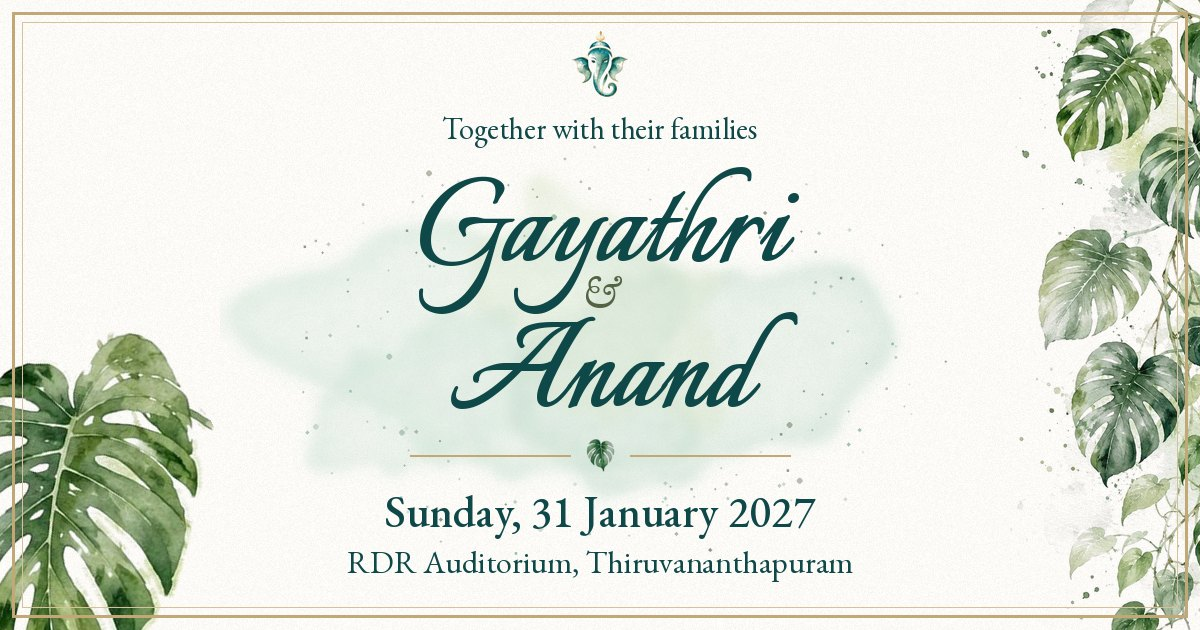
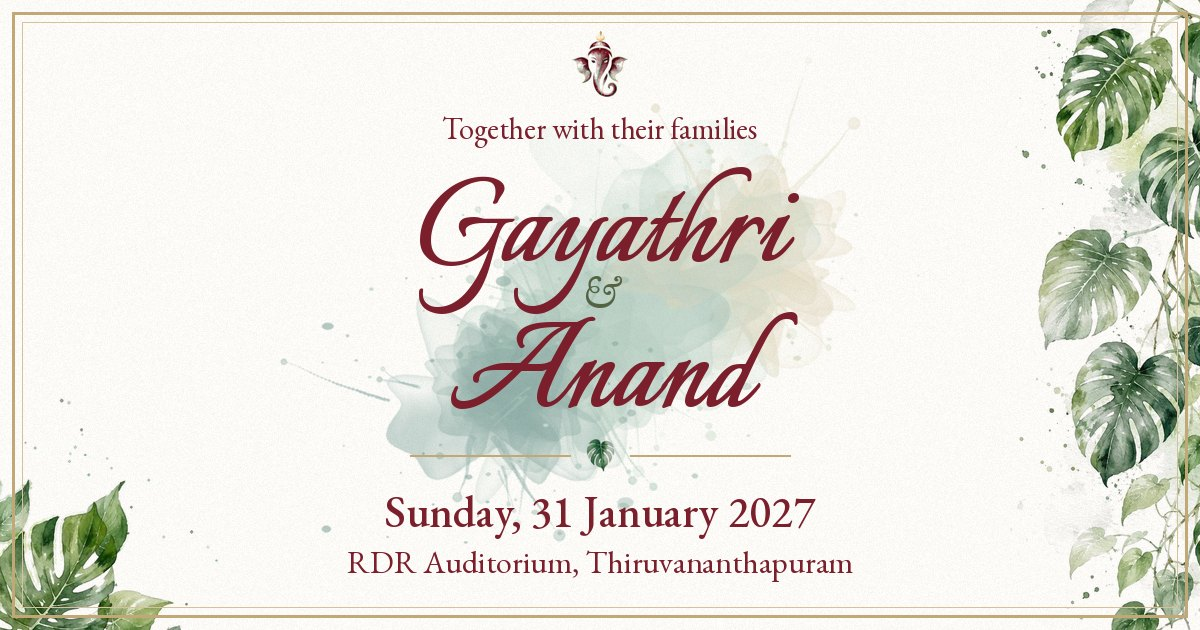
Readable on phones; maroon text, Ganapathi and envelope over teal art
- Mobile text sizes raised (smallest now 18px), no faded/translucent text
- Maroon (#7A1F2B) names and headings, deep maroon-brown body text;
  teal kept for the vine, splash, leaves and booth tint
- Ganapathi recoloured to maroon (gold kept); maroon envelope and nav dot
- Link-preview image updated to match

Claude-Session: https://claude.ai/code/session_01WpfQfujxHhr6udEaJacsYk

diff --git a/src/components/sections/HeroSection.tsx b/src/components/sections/HeroSection.tsx
@@ -66,7 +66,7 @@ export function HeroSection() {
         {/* Welcome */}
         <motion.p
           variants={fadeUp}
-          className="script-line text-3xl md:text-4xl"
+          className="script-line text-[2.2rem] md:text-4xl"
         >
           Request the pleasure of your company
         </motion.p>
@@ -78,7 +78,7 @@ export function HeroSection() {
 
         <motion.p
           variants={fadeUp}
-          className="script-line text-3xl md:text-4xl mt-2"
+          className="script-line text-[2.2rem] md:text-4xl mt-2"
         >
           at the wedding celebration of
         </motion.p>
@@ -92,7 +92,7 @@ export function HeroSection() {
             aria-hidden="true"
             className="mint-wash"
           />
-          <motion.h1 variants={fadeUp} className="script-name text-6xl md:text-7xl mt-1">
+          <motion.h1 variants={fadeUp} className="script-name text-[4.4rem] md:text-7xl mt-1">
             {couple.partner1}
           </motion.h1>
 
@@ -103,7 +103,7 @@ export function HeroSection() {
             &amp;
           </motion.span>
 
-          <motion.h1 variants={fadeUp} className="script-name text-6xl md:text-7xl">
+          <motion.h1 variants={fadeUp} className="script-name text-[4.4rem] md:text-7xl">
             {couple.partner2}
           </motion.h1>
         </div>
@@ -123,10 +123,10 @@ export function HeroSection() {
 
         {/* Date */}
         <motion.div variants={fadeUp}>
-          <p className="font-serif font-medium text-ink text-xl md:text-2xl">
+          <p className="font-serif font-medium text-ink text-[1.65rem] leading-tight md:text-2xl">
             {formattedDate}
           </p>
-          <p className="font-sans text-cream/90 text-base md:text-lg mt-0.5">
+          <p className="font-sans text-cream text-xl md:text-lg mt-0.5">
             Muhurtham: {event.muhurthamTime}
           </p>
         </motion.div>
@@ -160,17 +160,17 @@ export function HeroSection() {
               href={event.mapUrl}
               target="_blank"
               rel="noopener noreferrer"
-              className="group inline-flex items-center gap-1.5 font-serif text-lg md:text-xl text-ink hover:text-leaf transition-colors"
+              className="group inline-flex items-center gap-1.5 font-serif text-[1.4rem] leading-tight md:text-xl text-ink hover:text-cream transition-colors"
             >
               <MapPin size={14} className="shrink-0 text-accent" />
               {event.venue}
             </a>
-            <span className="text-cream/80 text-sm md:text-base pl-5">{event.address}</span>
+            <span className="text-cream text-lg md:text-base pl-5">{event.address}</span>
             <a
               href={event.mapUrl}
               target="_blank"
               rel="noopener noreferrer"
-              className="inline-flex items-center gap-1 pl-5 text-leaf text-sm hover:text-ink transition-colors"
+              className="inline-flex items-center gap-1 pl-5 text-ink text-lg md:text-sm underline decoration-gold underline-offset-4 hover:text-cream transition-colors"
             >
               Directions
               <ExternalLink size={11} className="shrink-0 opacity-60" />
@@ -179,7 +179,7 @@ export function HeroSection() {
               href={calendarUrl}
               target="_blank"
               rel="noopener noreferrer"
-              className="inline-flex items-center gap-1.5 text-accent text-sm hover:text-gold-light transition-colors mt-1"
+              className="inline-flex items-center gap-1.5 text-accent text-lg md:text-sm hover:text-gold-light transition-colors mt-1"
             >
               <CalendarPlus size={14} className="shrink-0" />
               Add to calendar
@@ -188,19 +188,19 @@ export function HeroSection() {
         </motion.div>
 
         {/* Dress code */}
-        <motion.div variants={fadeUp} className="mt-4 flex items-center justify-center gap-4 md:gap-6">
-          <p className="script-line text-3xl md:text-4xl">Dress code</p>
+        <motion.div variants={fadeUp} className="mt-4 flex flex-wrap items-center justify-center gap-x-4 gap-y-1 md:gap-6">
+          <p className="script-line text-[2.2rem] md:text-4xl w-full md:w-auto">Dress code</p>
           <div className="flex items-center gap-1.5">
-            <span className="w-3 h-3 rounded-full bg-[#B5403A] border border-accent/20" />
-            <span className="w-3 h-3 rounded-full bg-[#8B2E2A] border border-accent/20" />
-            <span className="w-3 h-3 rounded-full bg-[#D4604A] border border-accent/20" />
-            <span className="text-cream/80 text-sm ml-1">Groom</span>
+            <span className="w-3.5 h-3.5 md:w-3 md:h-3 rounded-full bg-[#B5403A] border border-accent/20" />
+            <span className="w-3.5 h-3.5 md:w-3 md:h-3 rounded-full bg-[#8B2E2A] border border-accent/20" />
+            <span className="w-3.5 h-3.5 md:w-3 md:h-3 rounded-full bg-[#D4604A] border border-accent/20" />
+            <span className="text-cream text-lg md:text-sm ml-1">Groom</span>
           </div>
           <div className="flex items-center gap-1.5">
-            <span className="w-3 h-3 rounded-full bg-[#3A7D7B] border border-accent/20" />
-            <span className="w-3 h-3 rounded-full bg-[#2E5C8A] border border-accent/20" />
-            <span className="w-3 h-3 rounded-full bg-[#4A8C6F] border border-accent/20" />
-            <span className="text-cream/80 text-sm ml-1">Bride</span>
+            <span className="w-3.5 h-3.5 md:w-3 md:h-3 rounded-full bg-[#3A7D7B] border border-accent/20" />
+            <span className="w-3.5 h-3.5 md:w-3 md:h-3 rounded-full bg-[#2E5C8A] border border-accent/20" />
+            <span className="w-3.5 h-3.5 md:w-3 md:h-3 rounded-full bg-[#4A8C6F] border border-accent/20" />
+            <span className="text-cream text-lg md:text-sm ml-1">Bride</span>
           </div>
         </motion.div>
 

diff --git a/src/components/sections/RSVPSection.tsx b/src/components/sections/RSVPSection.tsx
@@ -82,12 +82,12 @@ export function RSVPSection() {
   }
 
   const inputBase =
-    "w-full px-4 py-3 bg-white/80 border border-accent/25 rounded-sm font-sans text-sm font-light text-cream " +
-    "placeholder:text-cream/40 focus:outline-none focus:border-accent/50 focus:ring-1 focus:ring-accent/10 " +
+    "w-full px-4 py-3 bg-white/80 border border-accent/25 rounded-sm font-sans text-lg md:text-base text-cream " +
+    "placeholder:text-cream/50 focus:outline-none focus:border-accent/50 focus:ring-1 focus:ring-accent/10 " +
     "transition-colors";
 
   const buttonBase =
-    "px-6 py-3 rounded-sm font-sans text-sm font-semibold tracking-wider transition-all";
+    "px-6 py-3 rounded-sm font-sans text-lg md:text-base font-semibold tracking-wide transition-all";
 
   return (
     <section className="w-full px-5 py-12 md:px-8 md:py-16 flex justify-center">
@@ -105,7 +105,7 @@ export function RSVPSection() {
           <h2 className="script-name text-6xl md:text-7xl">
             RSVP
           </h2>
-          <p className="mt-1 script-line text-3xl md:text-4xl">
+          <p className="mt-1 script-line text-[2.2rem] md:text-4xl">
             Kindly respond by{" "}
             {new Date(rsvp.deadline).toLocaleDateString("en-IN", {
     timeZone: "Asia/Kolkata",
@@ -129,7 +129,7 @@ export function RSVPSection() {
               <h3 className="font-serif italic text-2xl text-cream mb-2">
                 Thank You, {form.name}!
               </h3>
-              <p className="text-cream/60 text-sm font-light">
+              <p className="text-cream text-lg">
                 {form.attending === "yes"
                   ? "We can't wait to celebrate with you!"
                   : "We'll miss you! Thank you for letting us know."}
@@ -148,7 +148,7 @@ export function RSVPSection() {
               <div>
                 <label
                   htmlFor="rsvp-name"
-                  className="block text-cream/60 text-xs tracking-[0.15em] font-sans font-light mb-2"
+                  className="block text-cream text-base md:text-sm tracking-[0.08em] font-sans mb-2"
                 >
                   Your name
                 </label>
@@ -165,7 +165,7 @@ export function RSVPSection() {
 
               {/* Attendance */}
               <fieldset>
-                <legend className="block text-cream/60 text-xs tracking-[0.15em] font-sans font-light mb-3">
+                <legend className="block text-cream text-base md:text-sm tracking-[0.08em] font-sans mb-3">
                   Will you attend?
                 </legend>
                 <div className="flex gap-3">
@@ -197,7 +197,7 @@ export function RSVPSection() {
                     className="space-y-4 overflow-hidden"
                   >
                     <div>
-                      <span className="block text-cream/60 text-xs tracking-[0.15em] font-sans font-light mb-3">
+                      <span className="block text-cream text-base md:text-sm tracking-[0.08em] font-sans mb-3">
                         Additional guests
                       </span>
                       <div className="flex items-center gap-3 mb-3">
@@ -248,7 +248,7 @@ export function RSVPSection() {
                   >
                     <label
                       htmlFor="rsvp-message"
-                      className="block text-cream/60 text-xs tracking-[0.15em] font-sans font-light mb-2"
+                      className="block text-cream text-base md:text-sm tracking-[0.08em] font-sans mb-2"
                     >
                       A note for the couple
                     </label>

diff --git a/src/components/ui/InvitationIntro.tsx b/src/components/ui/InvitationIntro.tsx
@@ -146,7 +146,7 @@ function EnvelopeOpening({ onReveal, onDone }: { onReveal: () => void; onDone: (
         transition={{ duration: phase === "out" ? 0.6 : 0.5, ease: [0.22, 1, 0.36, 1] }}
       >
         {/* Back of the envelope */}
-        <div className="absolute inset-0 rounded-[3px] bg-[#0B3D3D] border border-gold" />
+        <div className="absolute inset-0 rounded-[3px] bg-[#5A1520] border border-gold" />
 
         {/* The card inside */}
         <motion.div
@@ -170,14 +170,14 @@ function EnvelopeOpening({ onReveal, onDone }: { onReveal: () => void; onDone: (
             </span>
             {couple.partner2}
           </p>
-          <p className="text-[0.65rem] tracking-[0.3em] text-cream/70 mt-1">31 · 01 · 2027</p>
+          <p className="text-xs tracking-[0.3em] text-cream mt-1">31 · 01 · 2027</p>
         </motion.div>
 
         {/* Front pocket (covers the lower card) */}
         <svg viewBox="0 0 100 100" preserveAspectRatio="none" className="absolute inset-0 z-20 w-full h-full">
-          <path d="M0 0 L48 58 L0 100 Z" fill="#105050" />
-          <path d="M100 0 L52 58 L100 100 Z" fill="#105050" />
-          <path d="M0 100 L50 50 L100 100 Z" fill="#0F4848" />
+          <path d="M0 0 L48 58 L0 100 Z" fill="#6E1B27" />
+          <path d="M100 0 L52 58 L100 100 Z" fill="#6E1B27" />
+          <path d="M0 100 L50 50 L100 100 Z" fill="#7A1F2B" />
           <path d="M0 100 L50 50 L100 100" fill="none" stroke="#C2A876" strokeWidth="0.6" vectorEffect="non-scaling-stroke" />
           <rect x="0" y="0" width="100" height="100" fill="none" stroke="#C2A876" strokeWidth="1" vectorEffect="non-scaling-stroke" />
         </svg>
@@ -191,7 +191,7 @@ function EnvelopeOpening({ onReveal, onDone }: { onReveal: () => void; onDone: (
           transition={{ duration: 0.6, ease: [0.65, 0, 0.35, 1] }}
         >
           <svg viewBox="0 0 100 100" preserveAspectRatio="none" className="absolute inset-0 w-full h-full">
-            <path d="M0 0 L50 100 L100 0 Z" fill="#0D4444" stroke="#C2A876" strokeWidth="1" vectorEffect="non-scaling-stroke" />
+            <path d="M0 0 L50 100 L100 0 Z" fill="#681A25" stroke="#C2A876" strokeWidth="1" vectorEffect="non-scaling-stroke" />
           </svg>
           <span
             className="absolute left-1/2 bottom-0 -translate-x-1/2 translate-y-1/2 w-9 h-9 rounded-full
@@ -347,8 +347,8 @@ export function InvitationIntro({
               aria-label="Enter invitation"
             >
               <svg
-                width="52"
-                height="36"
+                width="64"
+                height="44"
                 viewBox="0 0 100 68"
                 fill="none"
                 xmlns="http://www.w3.org/2000/svg"
@@ -356,14 +356,14 @@ export function InvitationIntro({
               >
                 <rect
                   x="2" y="14" width="96" height="52" rx="3"
-                  fill="#0F4848" stroke="#C2A876" strokeWidth="1.2"
+                  fill="#7A1F2B" stroke="#C2A876" strokeWidth="1.2"
                 />
                 <path
                   d="M2 14 L50 44 L98 14" fill="none"
                   stroke="#C2A876" strokeWidth="1.2" strokeLinejoin="round"
                 />
               </svg>
-              <span className="text-leaf text-xs font-sans font-light group-hover:text-ink transition-colors tracking-wide">
+              <span className="text-ink text-lg md:text-base font-sans group-hover:text-cream transition-colors tracking-wide">
                 Open invite ↗
               </span>
             </motion.button>

diff --git a/src/app/globals.css b/src/app/globals.css
@@ -6,19 +6,20 @@
   /*    sage leaves and a soft antique-gold rule.      */
   --color-paper: #FCFBF7;      /* page background */
   --color-paper-alt: #F1F6F2;  /* pale mint watercolour wash */
-  --color-ink: #0F4848;        /* names & headings (invite teal) */
+  --color-ink: #7A1F2B;        /* names & headings: Kerala maroon */
+  --color-teal-ink: #0F4848;   /* invite teal, kept for artwork accents */
   --color-leaf: #2F6B5C;       /* mid monstera green */
   --color-olive: #546343;      /* ampersand on the invite */
   --color-sage: #8FB3A3;       /* light leaf */
 
   /* Legacy token names, remapped onto the light theme */
-  --color-primary: #0F4848;
+  --color-primary: #7A1F2B;
   --color-secondary: #2F6B5C;
   --color-accent: #9E7F45;     /* antique gold, dark enough for text */
   --color-gold: #C2A876;       /* gold rule on the invite */
   --color-gold-light: #7E6434; /* hover: deeper gold on light bg */
-  --color-dark: #0B3535;
-  --color-cream: #0F4848;      /* body text = invite ink */
+  --color-dark: #3E1219;
+  --color-cream: #4A1820;      /* body text: deep maroon-brown, high contrast */
   --color-muted: #8FB3A3;
   --color-teal: #FCFBF7;       /* was dark teal bg → ivory */
   --color-teal-light: #FFFFFF;
@@ -176,7 +177,8 @@ body {
 .script-line {
   font-family: var(--font-script);
   font-weight: 400;
-  color: color-mix(in srgb, var(--color-ink) 85%, transparent);
+  color: var(--color-ink);
+  -webkit-text-stroke: 0.35px currentColor;
   line-height: 1;
 }
 

diff --git a/src/components/sections/FooterSection.tsx b/src/components/sections/FooterSection.tsx
@@ -16,7 +16,7 @@ export function FooterSection() {
       <p className="script-name text-4xl">
         {couple.partner1} & {couple.partner2}
       </p>
-      <p className="text-cream/50 text-xs font-sans font-light tracking-[0.15em] mt-2">
+      <p className="text-cream text-base md:text-sm font-sans tracking-[0.12em] mt-2">
         {new Date(event.date).toLocaleDateString("en-IN", {
     timeZone: "Asia/Kolkata",
           month: "long",

diff --git a/src/components/ui/PhotoBooth.tsx b/src/components/ui/PhotoBooth.tsx
@@ -189,7 +189,7 @@ function BoothStrip({
         <p className="script-name text-2xl text-center mt-2 leading-none whitespace-nowrap">
           {couple.partner1} &amp; {couple.partner2}
         </p>
-        <p className="text-center text-[0.65rem] tracking-[0.25em] text-cream/70 mt-1">{stripDate}</p>
+        <p className="text-center text-xs tracking-[0.25em] text-cream mt-1">{stripDate}</p>
       </motion.div>
     </motion.div>
   );

diff --git a/src/components/ui/NavigationDots.tsx b/src/components/ui/NavigationDots.tsx
@@ -62,7 +62,7 @@ export function NavigationDots() {
           <motion.span
             animate={{
               scale: active === i ? 1 : 0.6,
-              backgroundColor: active === i ? "#0F4848" : "#8FB3A3",
+              backgroundColor: active === i ? "#7A1F2B" : "#8FB3A3",
             }}
             transition={{ duration: 0.3 }}
             className="block w-2.5 h-2.5 rounded-full border border-accent/30"
